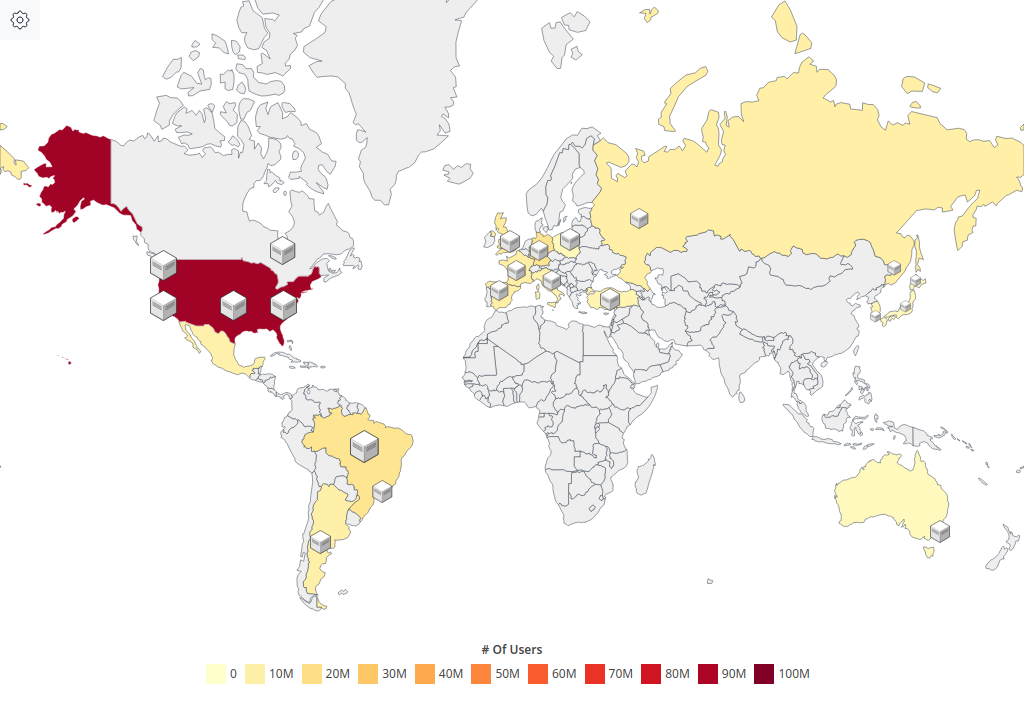
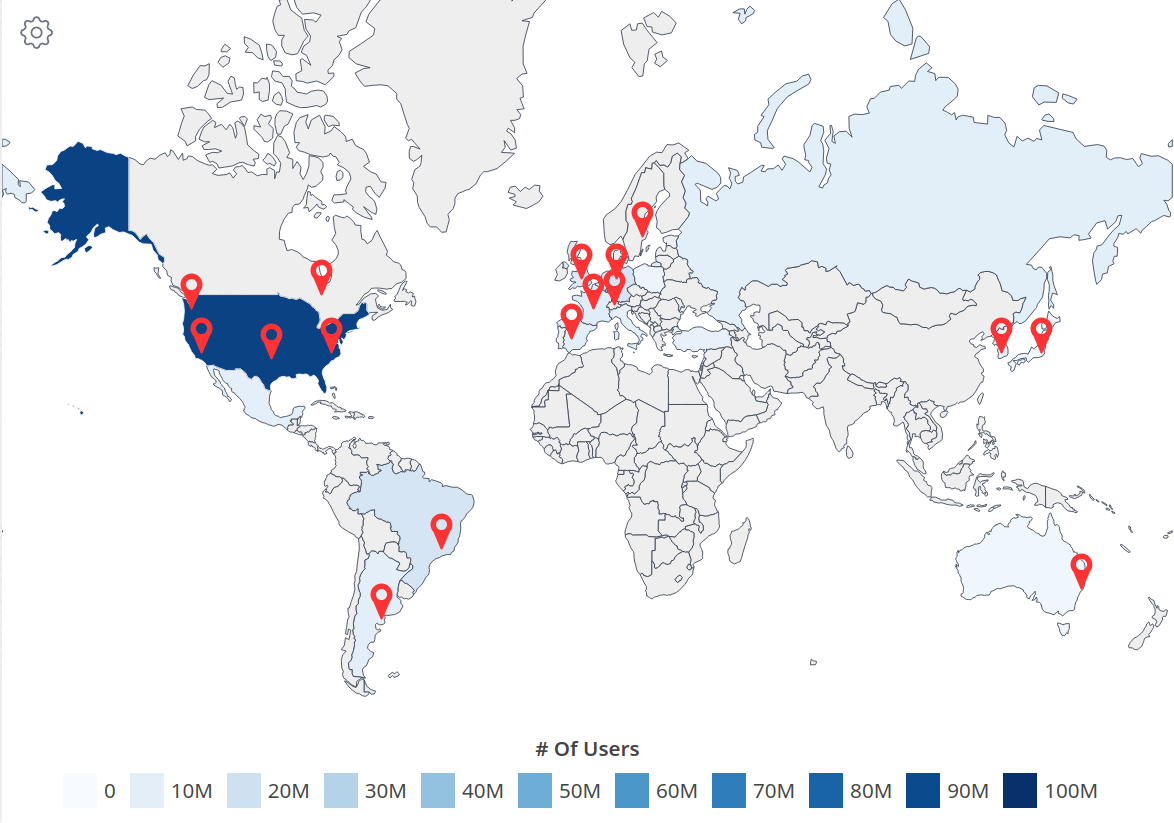
update dc location

diff --git a/README.md b/README.md
@@ -20,7 +20,7 @@
   - [3. Глобальная балансировка нагрузки](#3-глобальная-балансировка-нагрузки)
     - [Cхема глобальной балансировки до датацентров](#cхема-глобальной-балансировки-до-датацентров)
     - [Физическое расположение датацентров](#физическое-расположение-датацентров)
-    - [Схема примерного расположения ДЦ](#схема-примерного-расположения-дц)
+      - [Схема примерного расположения ДЦ](#схема-примерного-расположения-дц)
   - [Источники](#источники)
   <!--toc:end-->
 
@@ -234,7 +234,7 @@ $$
 |   Просмотр трансляции    |   10 Тбит/сек    |   17 ТБит/сек    | 105965 ТБайт/сутки |
 |       Чтение чата        |   0.05 Гбит/с    |    0.1 Гбит/с    |  312 ГБайт/сутки   |
 |  Проведение трансляции   |    399 Гбит/с    |    557 Гбит/с    | 4 250 ТБайт/сутки  |
-| Отправка сообщений в чат |   0.002 Гбит/с   |  0.0034 Гбит/с   | 12 312 ГБайт/сутки |
+| Отправка сообщений в чат |   0.002 Гбит/с   |  0.0034 Гбит/с   |  312 ГБайт/сутки   |
 
 #### RPS в разбивке по типам запросов
 
@@ -276,42 +276,38 @@ $$
 - Сиэтл
 - Даллас
 
-Так же необходимо расположить ДЦ в Канаде, пусть это будет город Торонто.
+Так же необходимо расположить ДЦ в Канаде. Это будет город Торонто.
 
-На Европу приходится 32% процента пользователей, причем пользователи равномерно распределены по всей территории. Поэтому распределение будет следующим:
+На Европу приходится 32% процента пользователей, причем пользователи равномерно распределены по всей территории. Поэтому расположение будет следующим:
 
-- Берлин
-- Лондон
-- Мадрид
-- Париж
-- Рим
-- Варшава
-- Стамбул
-- Москва
+- Лондон (северная Европа)
+- Франкфурт (средняя и восточная Европе)
+- Цюрих (центральной Европе)
+- Париж (западной Европы)
+- Стокгольм (северная Европа и Россия)
+- Мадрид (южная Европа)
 
-В азии платформа не пользуется популярностью в Китае в виду политики страны, там есть свои аналоги, поэтому большая часит азиатской аудитории приходится на Японию и Южную Корею, так же стоит учитвать аудиторию с азиатской части России. Поэтому имеем следующее расположение:
+В Китае платформа не пользуется популярностью, в виду политики страны. Поэтому большая часть азиатской аудитории приходится на Японию и Южную Корею. Расположим ДЦ в следующих городах:
 
 - Токио
-- Саппоро(Япониия)
-- Хабаровск
 - Сеул
 
-Все размещенные датацентры покрывают основную часть трафика, осталось не затронутыми:
+Все размещенные датацентры покрывают основную часть трафика, остались не затронутыми:
 
 - Австралия
 - Южная Америка
 
-На Бразилию и Аргентину приходится 10% пользователей поэтому располагаем ДЦ в следующих местах:
+На Бразилию и Аргентину приходится 10% пользователей. Располагаем ДЦ в следующих местах:
 
-- Рио-де-Жанейро
-- Бразилиа
+- Сан-Паулу
 - Буэнос-Айрос
 
-В Австралии располагается всего 1.6% пользователей, а так же с учетом плотности населения можно расположить всего один ДЦ в столице, т.е. в городе Канберра
+В Австралии располагается всего 1.6% пользователей, а так же с учетом плотности населения можно расположить один ДЦ в однои из крупных городов, например в городе Сидней.
 
-### Схема примерного расположения ДЦ
+#### Схема примерного расположения ДЦ
 
-![Схема расположения ДЦ](./assets/dc.png)
+![Схема примерного расположения ДЦ
+](./assets/dc.png)
 
 ## Источники
 
